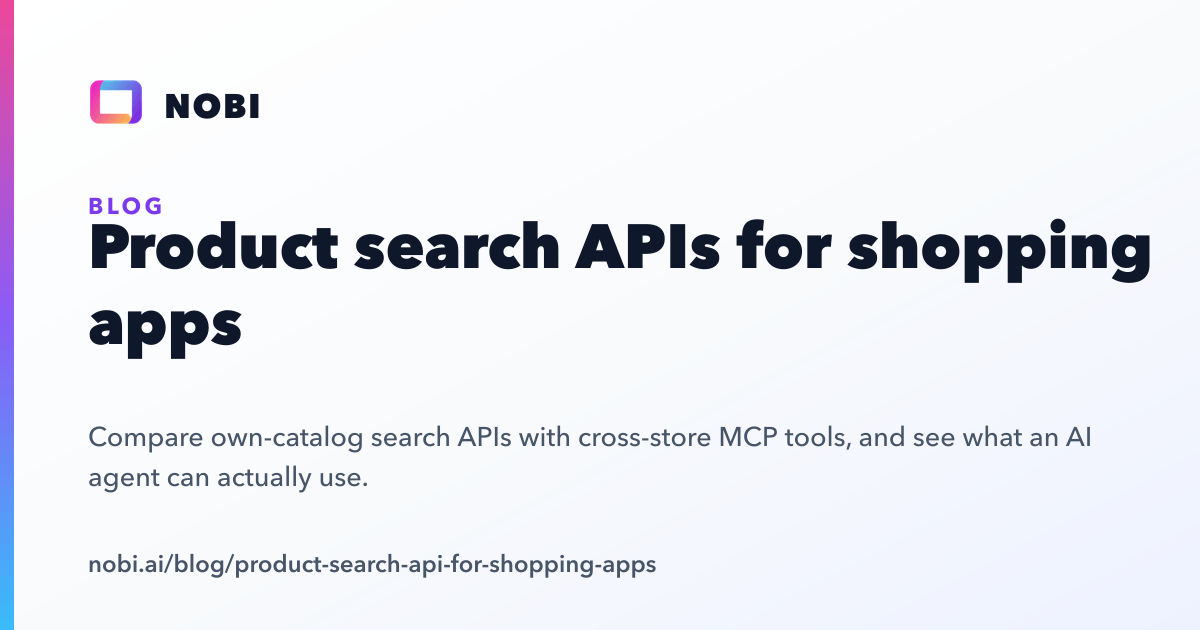
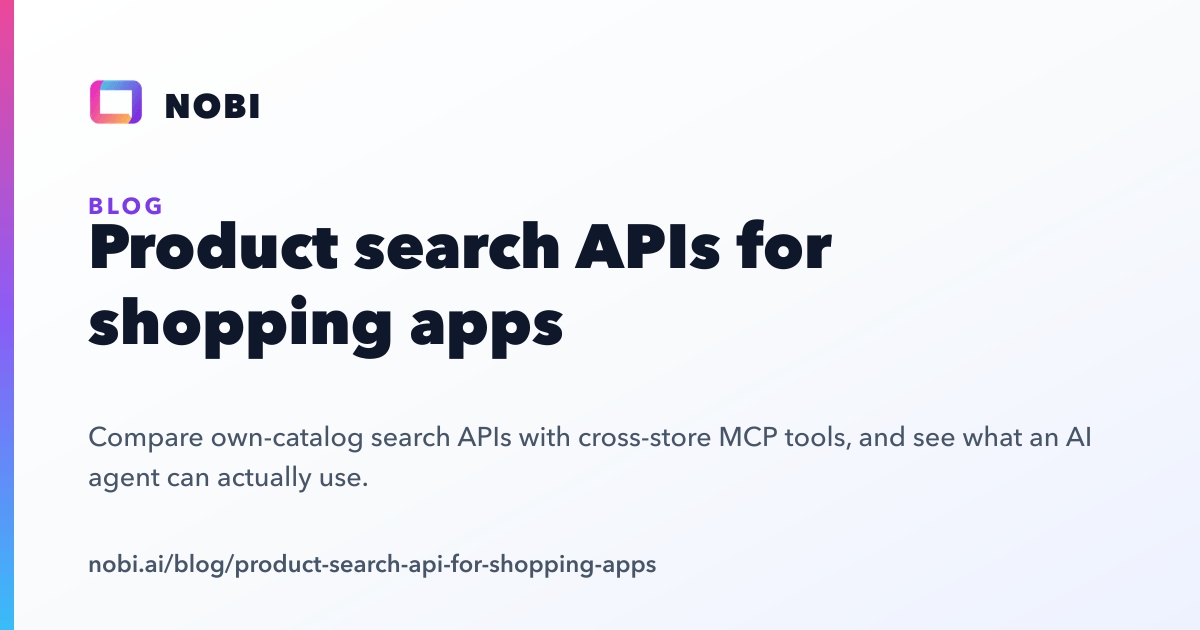
Prefer a page's own hero picture, and measure text instead of guessing it
Two changes on top of the cards.

A page that already has a hero or one big main picture should share that,
not a drawn card. Blog posts already did this through their frontmatter
(115 of 123 have one) and Shop Nobi pages through their first product's
picture. previewCards.js now takes the same heroImage field, preferred
over the card, so the rule is written down rather than implied. No other
carded page has a hero picture today: the feature pages, tools, pricing,
product, about and the legal pages carry no pictures at all, and the only
pictures on the customer stories are the brand logo and, on Lucchese, a
400 x 585 portrait and a 32 pixel avatar. None of those make a 1200 x 630
preview, so those pages keep their cards.

The three customer stories do now carry the brand's own logo, scaled to
fit beside the Nobi mark, since that is the page's defining picture.

The card builder was estimating glyph widths from a table, and the
estimate was wrong: "Lucchese generated $1M+ with Nobi" ran off the right
edge of its card. It now measures each candidate line by drawing it in the
card's own font and trimming the blank space, and the renderer fails the
run if any line would still be drawn past the margin.

Changed region(s): [[0.0617, 0.4524, 0.4933, 0.573], [0.7092, 0.3317, 0.9558, 0.4524]]

diff --git a/scripts/preview-card.js b/scripts/preview-card.js
@@ -9,67 +9,43 @@ export const PreviewCardSize = Object.freeze({ width: 1200, height: 630 });
 /** The folder the cards are written to, under public. */
 export const PreviewCardFolder = "media/og";
 
+/** The font the cards are drawn in. The measurer has to draw its samples in the same one. */
+export const PreviewCardFont = "'Avenir Next','Avenir','Helvetica Neue',Helvetica,Arial,sans-serif";
+
+/** The width a line of text has to stay inside. */
+export const PreviewTextWidth = 1024;
+
 const Navy = "#0f172a";
 const Slate = "#475569";
 const Violet = "#7c3aed";
-const Font = "'Avenir Next','Avenir','Helvetica Neue',Helvetica,Arial,sans-serif";
 
 const LeftMargin = 88;
-const TextWidth = 1024;
 const HeadlineSize = 62;
+const HeadlineWeight = 750;
 const HeadlineLineHeight = 76;
 const SummarySize = 27;
+const SummaryWeight = 500;
 const SummaryLineHeight = 40;
 const HeadlineTop = 268;
 const MaxHeadlineLines = 3;
 const MaxSummaryLines = 3;
 
-// Rough widths, as a fraction of the font size, for the characters our copy uses. Pango measures the real font
-// when it draws; these only have to be close enough to break lines inside the card's margins.
-const NarrowCharacters = "iljtfIr.,:;'!|()[]/ ";
-const WideCharacters = "mwMW@%";
-const NarrowWidth = 0.30;
-const WideWidth = 0.92;
-const CapitalWidth = 0.66;
-const OrdinaryWidth = 0.53;
-
-/**
- * Estimates how wide a piece of text is when drawn.
- *
- * @param {string} text The text to measure.
- * @param {number} fontSize The size it is drawn at.
- * @returns {number} The estimated width in pixels.
- */
-function measureText(text, fontSize) {
-  let total = 0;
-  for (const character of text) {
-    if (NarrowCharacters.includes(character)) {
-      total += NarrowWidth;
-    } else if (WideCharacters.includes(character)) {
-      total += WideWidth;
-    } else if (character >= "A" && character <= "Z") {
-      total += CapitalWidth;
-    } else {
-      total += OrdinaryWidth;
-    }
-  }
-  return total * fontSize;
-}
-
 /**
  * Breaks text into lines that fit the card, and drops whatever runs past the last line.
  *
  * @param {string} text The text to break.
- * @param {number} fontSize The size it is drawn at.
+ * @param {(text: string) => Promise<number>} measure Returns how wide a piece of text is when drawn.
  * @param {number} maxLines The most lines to keep.
- * @returns {string[]} The lines, the last one ending in an ellipsis when text was dropped.
+ * @returns {Promise<string[]>} The lines, the last one ending in an ellipsis when text was dropped.
  */
-export function wrapText(text, fontSize, maxLines) {
+export async function wrapText(text, measure, maxLines) {
+  const words = text.split(/\s+/).filter(Boolean);
   const lines = [];
   let line = "";
-  for (const word of text.split(/\s+/).filter(Boolean)) {
+
+  for (const word of words) {
     const candidate = line ? `${line} ${word}` : word;
-    if (line && measureText(candidate, fontSize) > TextWidth) {
+    if (line && (await measure(candidate)) > PreviewTextWidth) {
       lines.push(line);
       line = word;
       if (lines.length === maxLines) break;
@@ -80,20 +56,19 @@ export function wrapText(text, fontSize, maxLines) {
   if (lines.length < maxLines && line) lines.push(line);
 
   const kept = lines.slice(0, maxLines);
-  const usedEveryLine = kept.length === maxLines;
-  const wroteEverything = kept.join(" ") === text.split(/\s+/).filter(Boolean).join(" ");
-  if (usedEveryLine && !wroteEverything) {
+  if (kept.length === maxLines && kept.join(" ") !== words.join(" ")) {
     kept[kept.length - 1] = `${kept[kept.length - 1].replace(/[.,;:]$/, "")}…`;
   }
   return kept;
 }
 
 /** Draws one block of lines, top down from a baseline. */
-function drawLines(lines, { x, baseline, lineHeight, size, weight, fill }) {
+function drawLines(lines, { baseline, lineHeight, size, weight, fill }) {
   return lines
     .map((line, index) => {
       const y = baseline + index * lineHeight;
-      return `<text x="${x}" y="${y}" font-size="${size}" font-weight="${weight}" fill="${fill}">${htmlEscape(line)}</text>`;
+      const position = `x="${LeftMargin}" y="${y}"`;
+      return `<text ${position} font-size="${size}" font-weight="${weight}" fill="${fill}">${htmlEscape(line)}</text>`;
     })
     .join("\n  ");
 }
@@ -101,20 +76,22 @@ function drawLines(lines, { x, baseline, lineHeight, size, weight, fill }) {
 /**
  * Builds one page's link preview card.
  *
- * @param {object} card The card's content.
- * @param {string} card.eyebrow The small label above the headline, such as "Customer story".
- * @param {string} card.headline The page's own headline.
- * @param {string} card.summary A sentence describing the page.
- * @param {string} card.path The page's path, shown as its address.
- * @returns {string} The card's SVG.
+ * @param {object} card The card's content: eyebrow, headline, summary and the page's path.
+ * @param {Function} measure Returns how wide a piece of text is, given the text, its size and its weight.
+ * @returns {Promise<object>} The card's SVG, and every line of text in it so the caller can check each one fits.
  */
-export function buildPreviewCard({ eyebrow, headline, summary, path }) {
-  const headlineLines = wrapText(headline, HeadlineSize, MaxHeadlineLines);
-  const summaryTop = HeadlineTop + headlineLines.length * HeadlineLineHeight + 26;
-  const summaryLines = wrapText(summary, SummarySize, MaxSummaryLines);
-  const { width, height } = PreviewCardSize;
+export async function buildPreviewCard({ eyebrow, headline, summary, path }, measure) {
+  const measureHeadline = (text) => measure(text, HeadlineSize, HeadlineWeight);
+  const measureSummary = (text) => measure(text, SummarySize, SummaryWeight);
+  const headlineLines = await wrapText(headline, measureHeadline, MaxHeadlineLines);
+  const summaryLines = await wrapText(summary, measureSummary, MaxSummaryLines);
 
-  return `<svg xmlns="http://www.w3.org/2000/svg" width="${width}" height="${height}" viewBox="0 0 ${width} ${height}" role="img" aria-labelledby="cardTitle cardSummary">
+  const summaryTop = HeadlineTop + headlineLines.length * HeadlineLineHeight + 26;
+  const { width, height } = PreviewCardSize;
+  const headlineBlock = { baseline: HeadlineTop, lineHeight: HeadlineLineHeight, size: HeadlineSize };
+  const summaryBlock = { baseline: summaryTop, lineHeight: SummaryLineHeight, size: SummarySize };
+
+  const svg = `<svg xmlns="http://www.w3.org/2000/svg" width="${width}" height="${height}" viewBox="0 0 ${width} ${height}" role="img" aria-labelledby="cardTitle cardSummary">
   <title id="cardTitle">${htmlEscape(headline)}</title>
   <desc id="cardSummary">${htmlEscape(summary)}</desc>
   <defs>
@@ -129,14 +106,18 @@ export function buildPreviewCard({ eyebrow, headline, summary, path }) {
       <stop offset="1" stop-color="#38bdf8"/>
     </linearGradient>
   </defs>
-  <style>text{font-family:${Font}}</style>
+  <style>text{font-family:${PreviewCardFont}}</style>
   <rect width="${width}" height="${height}" fill="url(#wash)"/>
   <rect x="0" y="0" width="14" height="${height}" fill="url(#rail)"/>
   <text x="${LeftMargin + 76}" y="118" font-size="34" font-weight="800" fill="${Navy}" letter-spacing="1.5">NOBI</text>
   <text x="${LeftMargin}" y="214" font-size="23" font-weight="700" fill="${Violet}" letter-spacing="3.4">${htmlEscape(eyebrow.toUpperCase())}</text>
-  ${drawLines(headlineLines, { x: LeftMargin, baseline: HeadlineTop, lineHeight: HeadlineLineHeight, size: HeadlineSize, weight: 750, fill: Navy })}
-  ${drawLines(summaryLines, { x: LeftMargin, baseline: summaryTop, lineHeight: SummaryLineHeight, size: SummarySize, weight: 500, fill: Slate })}
+  ${drawLines(headlineLines, { ...headlineBlock, weight: HeadlineWeight, fill: Navy })}
+  ${drawLines(summaryLines, { ...summaryBlock, weight: SummaryWeight, fill: Slate })}
   <text x="${LeftMargin}" y="572" font-size="24" font-weight="600" fill="${Slate}">nobi.ai${htmlEscape(path === "/" ? "" : path)}</text>
 </svg>
 `;
+
+  const headlineOut = headlineLines.map((text) => ({ text, size: HeadlineSize, weight: HeadlineWeight }));
+  const summaryOut = summaryLines.map((text) => ({ text, size: SummarySize, weight: SummaryWeight }));
+  return { svg, lines: [...headlineOut, ...summaryOut] };
 }

diff --git a/src/content/previewCards.js b/src/content/previewCards.js
@@ -7,12 +7,15 @@ const BaseUrl = "https://nobi.ai";
 export const DefaultPreviewImage = `${BaseUrl}/og-image.png`;
 
 const feature = (headline, summary) => ({ eyebrow: "Feature", headline, summary });
-const story = (headline, summary) => ({ eyebrow: "Customer story", headline, summary });
+const story = (headline, summary, logo) => ({ eyebrow: "Customer story", headline, summary, logo });
 const tool = (headline, summary) => ({ eyebrow: "Free tool", headline, summary });
 const post = (headline, summary) => ({ eyebrow: "Blog", headline, summary });
 
 // Each page's card, by path. The summaries are the pages' own meta descriptions, cut to read at preview size.
 // After adding or changing one, run scripts/render-preview-images.mjs and commit the picture it draws.
+
+// A page that already has a hero or one big main picture should name it as heroImage instead, and it is shared as
+// it is. Blog posts do this through their frontmatter, and Shop Nobi pages through their first product's picture.
 export const PREVIEW_CARDS = Object.freeze({
   "/pricing": {
     eyebrow: "Pricing",
@@ -42,15 +45,18 @@ export const PREVIEW_CARDS = Object.freeze({
   },
   "/customers/untuckit": story(
     "UNTUCKit: +21.3% revenue per searcher",
-    "A two-month pilot. A clear result. UNTUCKit saw +17.1% conversion rate lift, then went all in on Nobi."
+    "A two-month pilot. A clear result. UNTUCKit saw +17.1% conversion rate lift, then went all in on Nobi.",
+    "media/logos/untuckit.svg"
   ),
   "/customers/lucchese": story(
     "Lucchese generated $1M+ with Nobi",
-    "$1M+ incremental revenue, 33x ROI, +22.9% checkout completion. How Lucchese transformed search with Nobi."
+    "$1M+ incremental revenue, 33x ROI, +22.9% checkout completion. How Lucchese transformed search with Nobi.",
+    "media/logos/lucchese.svg"
   ),
   "/customers/kilte": story(
     "Kilte: 21.7% more conversions",
-    "Kilte uses evocative color names like Cappuccino and Ivory. Nobi maps them to what shoppers actually search for."
+    "Kilte uses evocative color names like Cappuccino and Ivory. Nobi maps them to what shoppers actually search for.",
+    "media/logos/kilte.webp"
   ),
 
   "/product": {
@@ -186,14 +192,19 @@ export function previewCardSlug(path) {
 }
 
 /**
- * Returns the address of a page's own link preview picture.
+ * Returns the address of a page's own link preview picture. A page that already has a hero or main picture names it
+ * as heroImage and shares that; the rest share the card drawn for them.
  *
  * @param {string} [path] The page path.
- * @returns {string | null} The picture's address, or null when the page has no card of its own.
+ * @returns {string | null} The picture's address, or null when the page has no picture of its own.
  */
 export function previewImageUrl(path) {
-  if (!path || !PREVIEW_CARDS[path]) {
+  const card = path ? PREVIEW_CARDS[path] : null;
+  if (!card) {
     return null;
+  }
+  if (card.heroImage) {
+    return card.heroImage.startsWith("http") ? card.heroImage : `${BaseUrl}/${card.heroImage.replace(/^\//, "")}`;
   }
   return `${BaseUrl}/media/og/${previewCardSlug(path)}.png`;
 }
